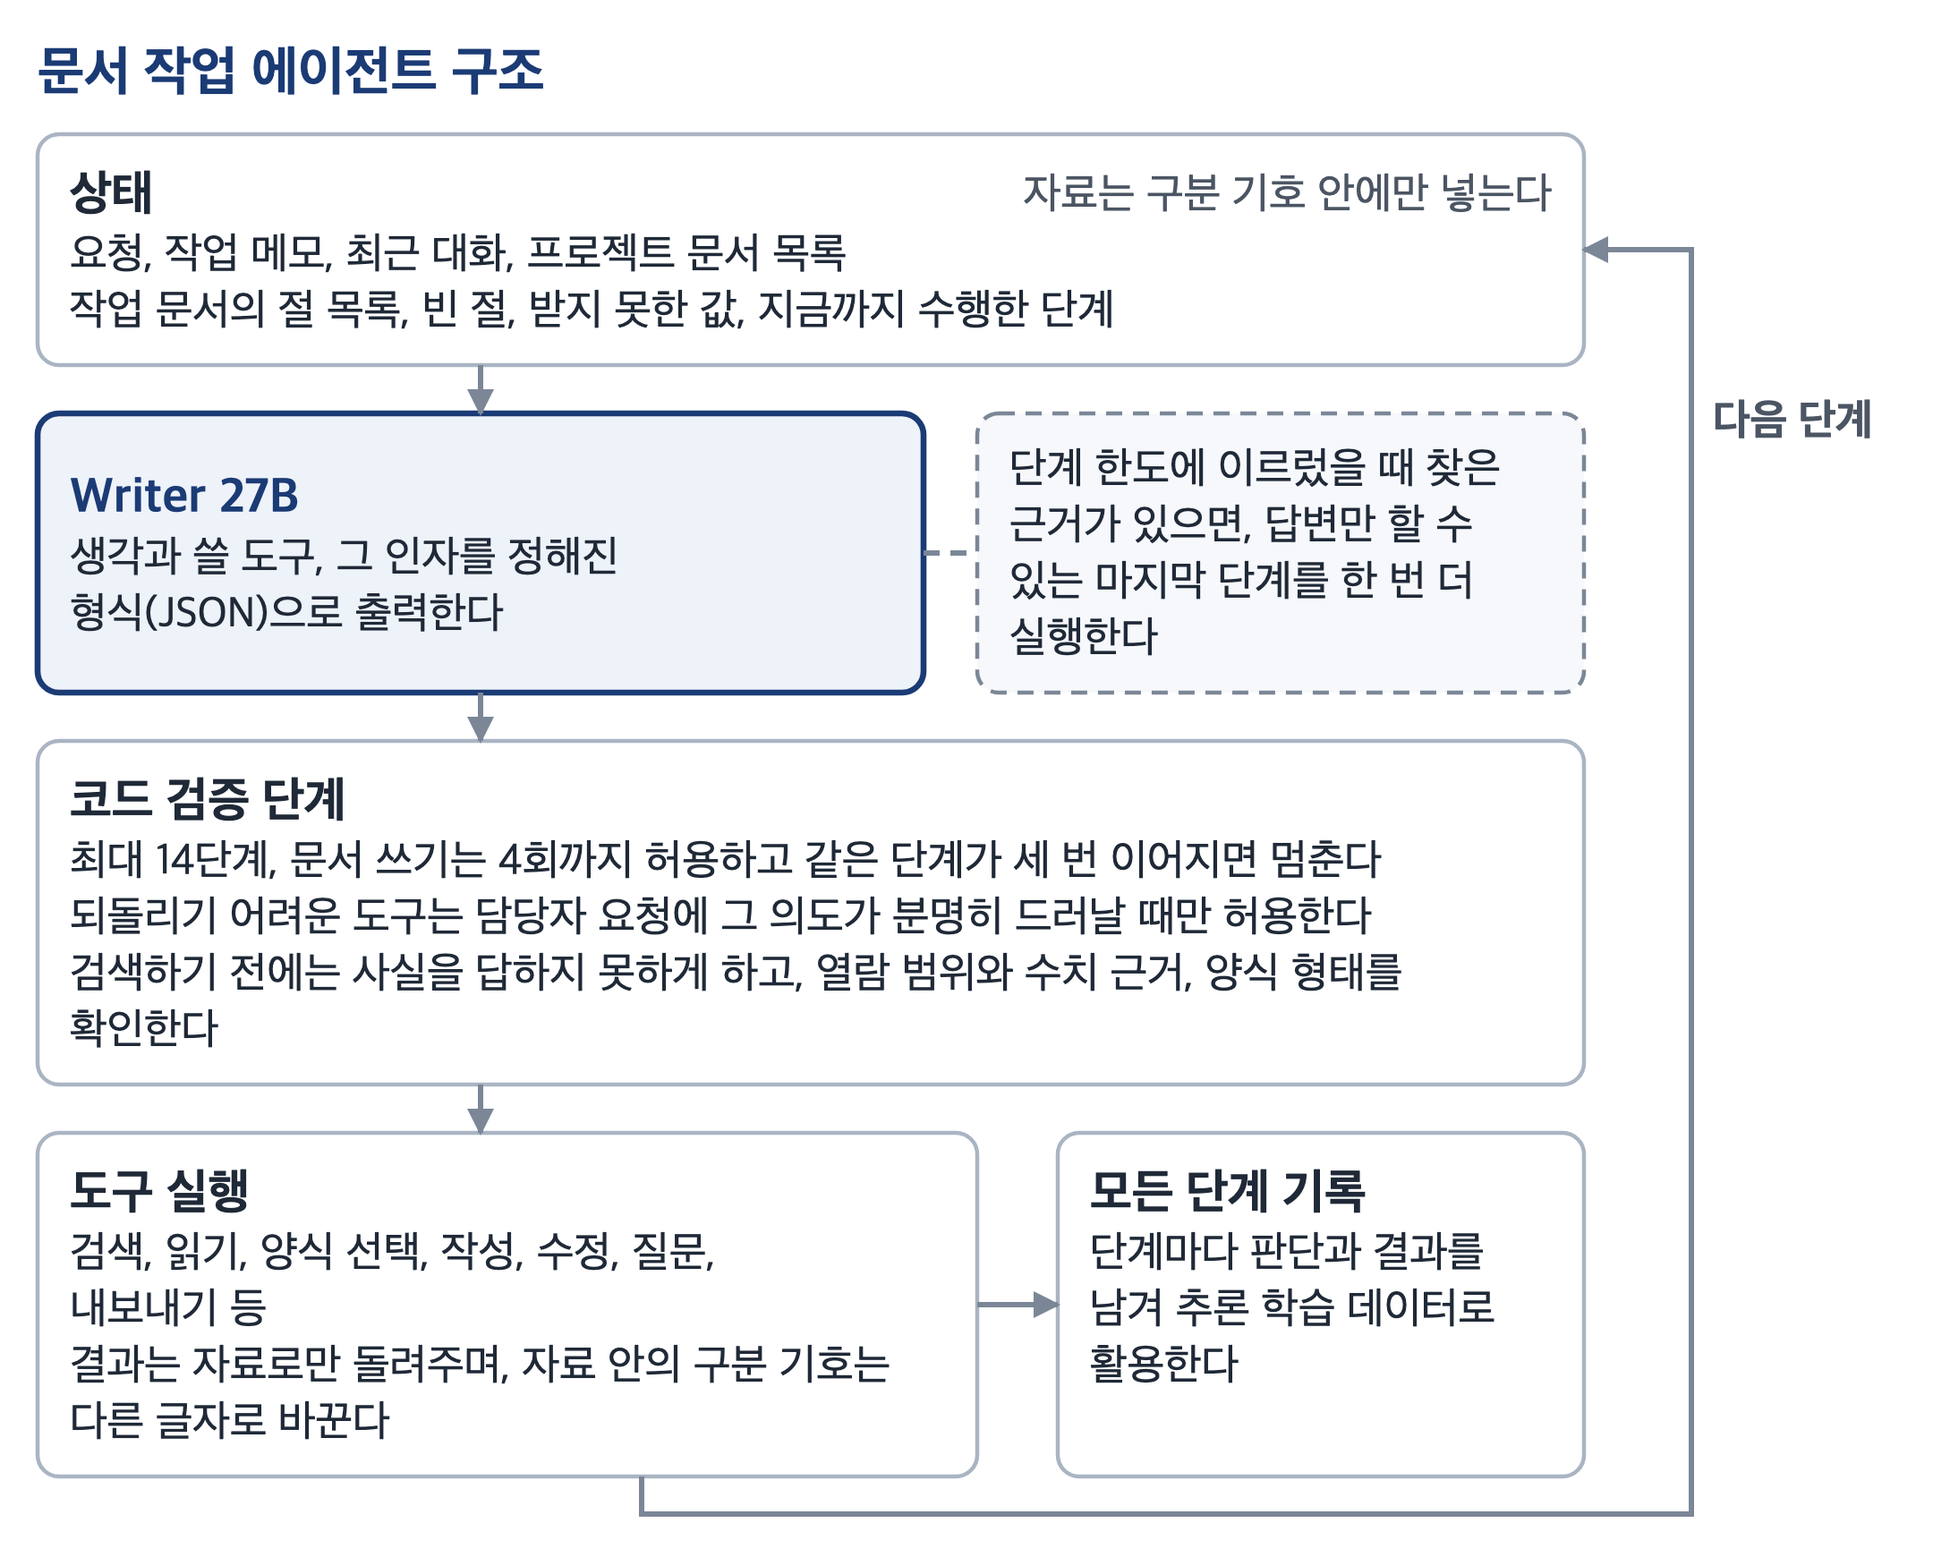
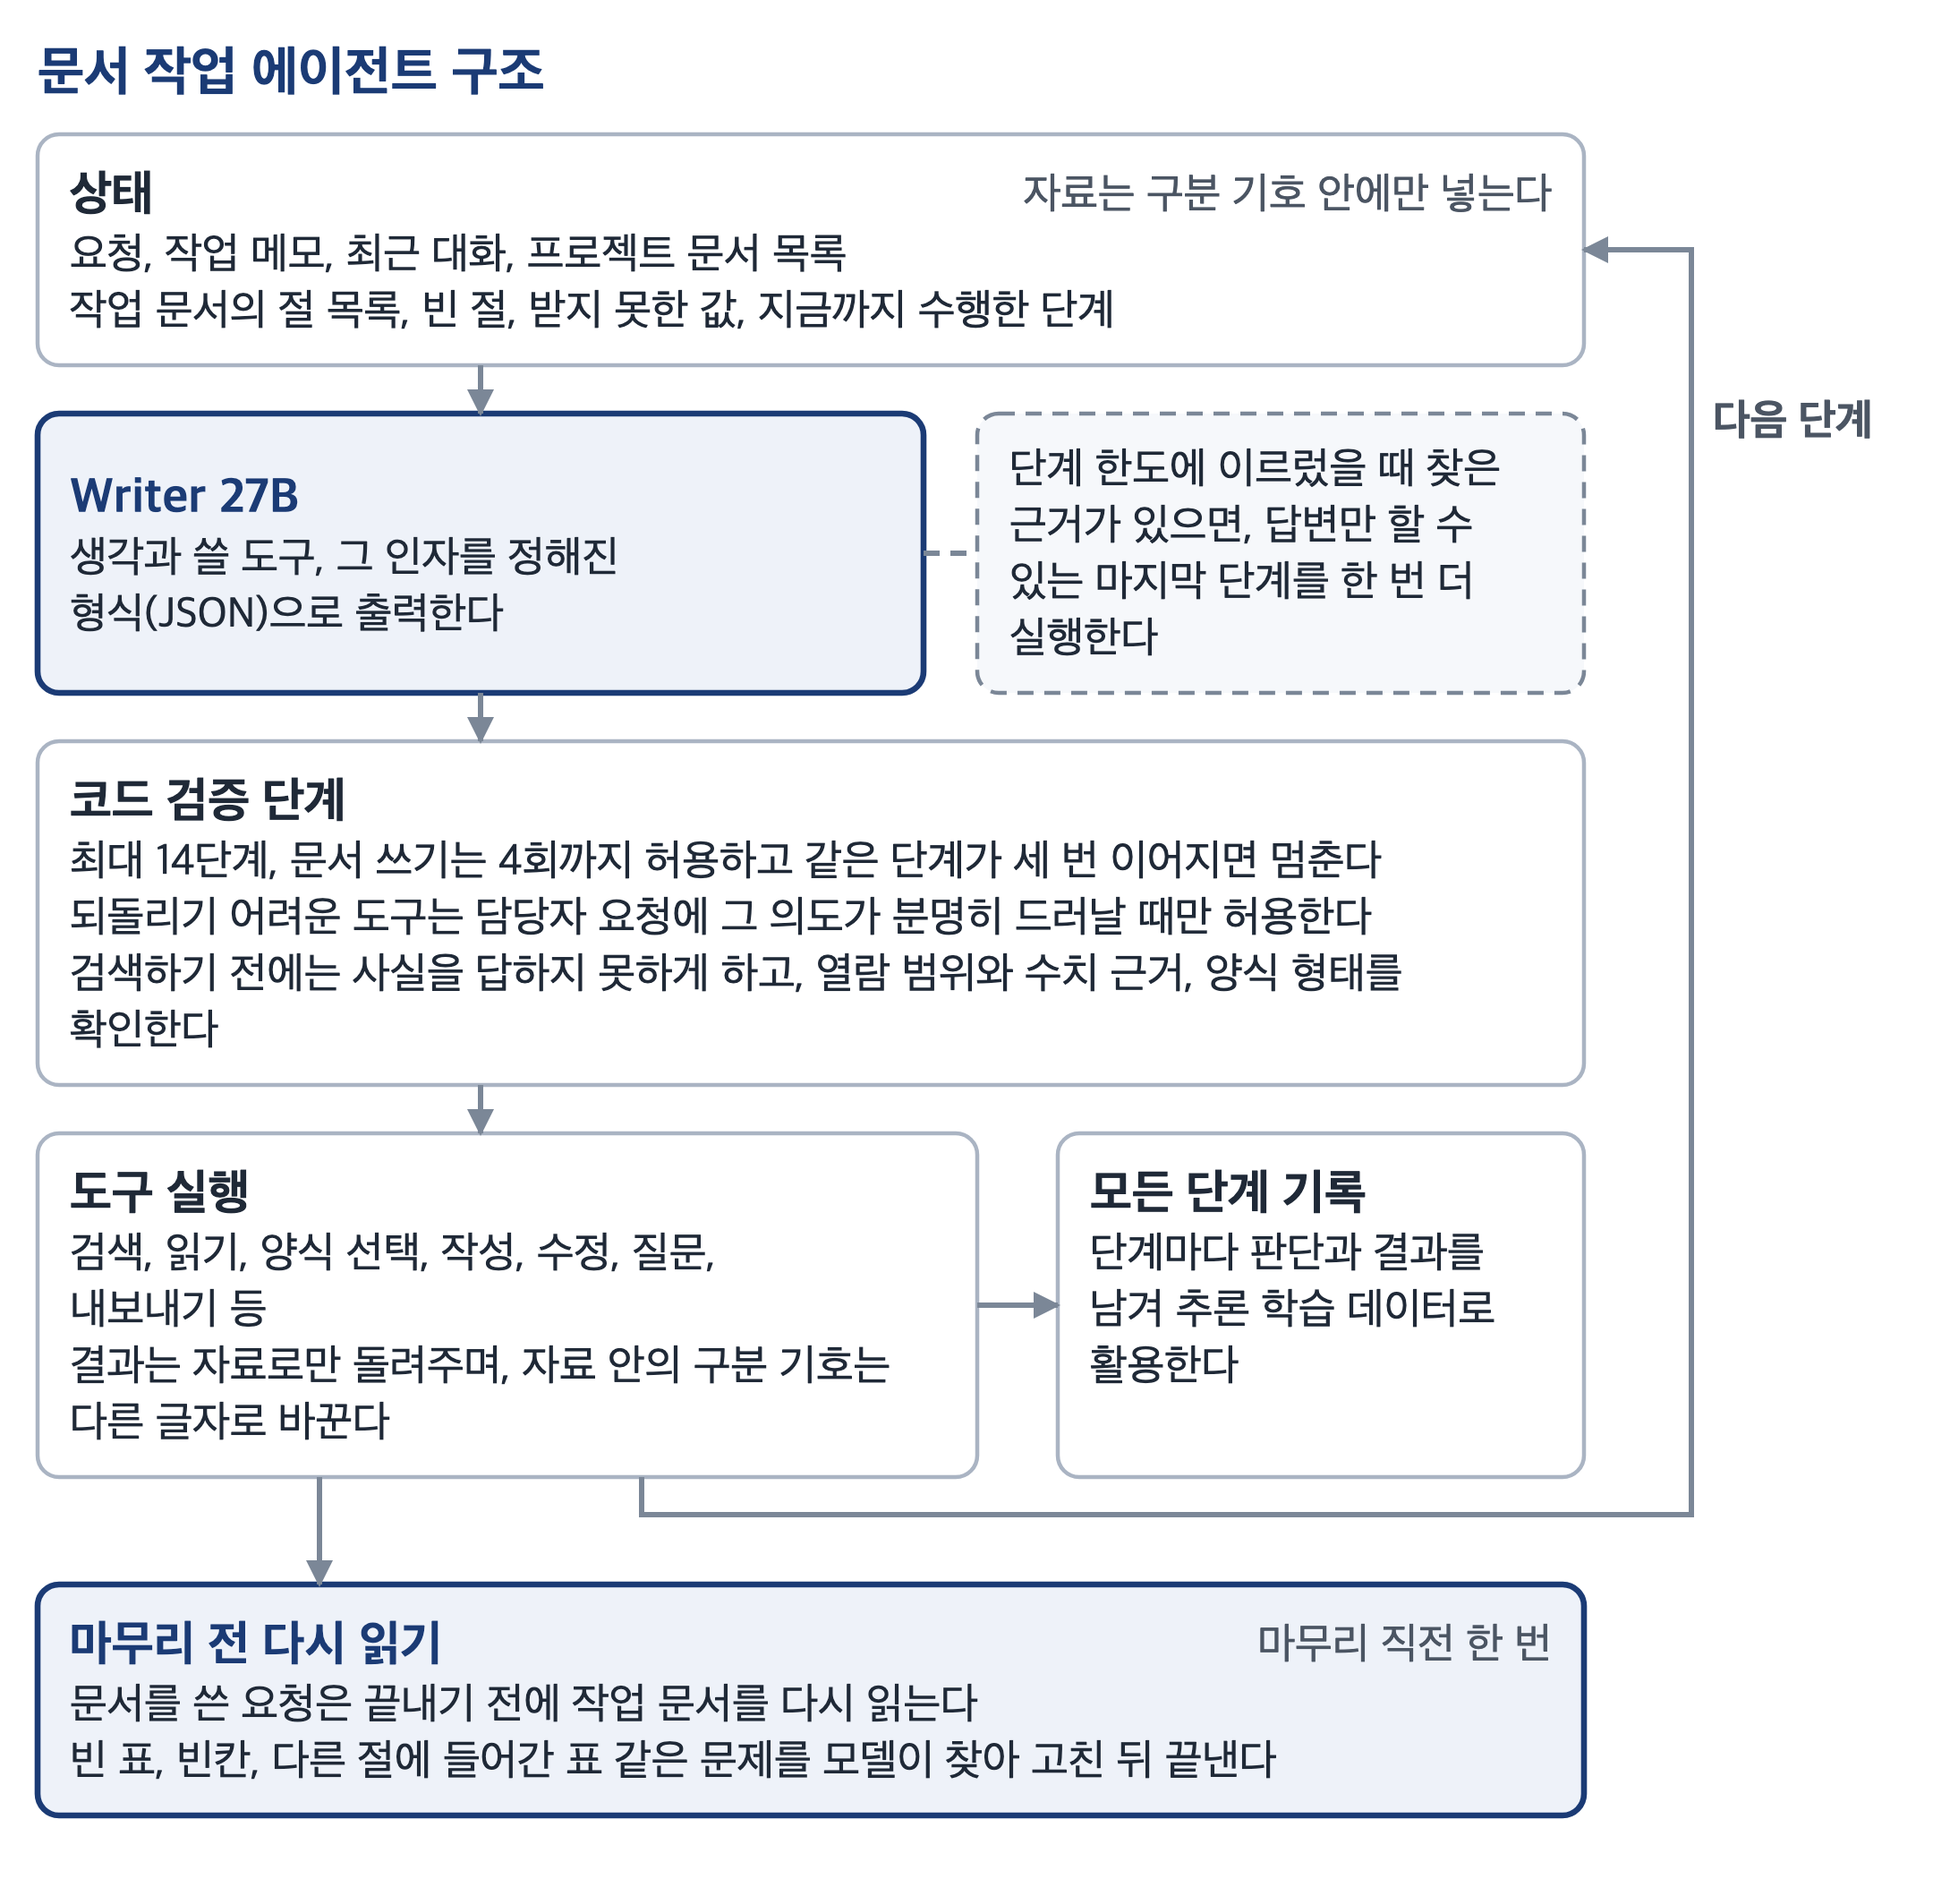
논문: 마무리 전 다시 읽기·표 절 관문(4.6, 그림 4-9), 항목 단계 글자(4.6), 출력 길이 고정 없음·압축(3.6.2, 4.5)

Changed region(s): [[0.0, 0.0, 0.8685, 0.9931], [0.8685, 0.1862, 0.9926, 0.2793], [0.8065, 0.1241, 0.8685, 0.1862]]

diff --git a/docs/images/diagrams/make_diagrams_ch34.py b/docs/images/diagrams/make_diagrams_ch34.py
@@ -633,7 +633,12 @@ def doc_agent():
     lx = M + cw + 40
     s.arrow([(M + lw / 2 + 60, y4 + h4), (M + lw / 2 + 60, y4 + h4 + 14), (lx, y4 + h4 + 14), (lx, y + h1 / 2), (M + cw, y + h1 / 2)])
     s.para(lx + 8, y + h1 + 10, W - M - lx - 8, "다음 단계", weight=700, color=MUTED)
-    s.fit(y4 + h4 + 16)
+    y5 = y4 + h4 + 40
+    h5 = s.box(M, y5, cw, None, "마무리 전 다시 읽기", ["문서를 쓴 요청은 끝내기 전에 작업 문서를 다시 읽는다",
+                                                "빈 표, 빈칸, 다른 절에 들어간 표 같은 문제를 모델이 찾아 고친 뒤 끝낸다"],
+               tag="마무리 직전 한 번", strong=True)
+    s.arrow([(M + lw / 2 - 60, y4 + h4), (M + lw / 2 - 60, y5)])
+    s.fit(y5 + h5 + 16)
     s.save("c4-21-doc-agent", "문서 작업 에이전트의 단계 구조와 관문")
 
 

diff --git a/docs/paper/논문/04-구현.md b/docs/paper/논문/04-구현.md
@@ -559,9 +559,9 @@ SHACL 위반 0건은 구축 결과가 온톨로지 명세를 지킨다는 뜻이
 3. 에이전트 판단: 문서 작업 에이전트가 먼저 요청을 받아 도구를 선택한다(4.6절). 모델에 접속할 수 없을 때만 낱말 규칙 경로를 사용한다.
 4. 검색: 규정 검색과 사업 문서 검색을 동시에 실행하고, 프로젝트 대화이면 그 프로젝트의 문서를 앞에 둔다.
 5. 근거 묶기: 두 묶음을 구분해 전달하고, 근거가 없거나 약하면 그 사실을 알린다.
-6. 컨텍스트 맞추기: 첨부, 오래된 대화, 출력 상한, 검색 근거의 순서로 줄이고, 그래도 컨텍스트 길이를 넘으면 요청을 보내지 않는다.
+6. 컨텍스트 맞추기: 첨부, 오래된 대화, 검색 근거의 순서로 압축하고, 그래도 컨텍스트 길이를 넘으면 요청을 보내지 않는다(3.6.2절).
 7. 생성: 첫머리 1~3문장의 답, 5개 이내의 근거 요점, 600자 안팎의 분량을 지시하고, 표나 문단을 그대로 옮겨 적지 않게 한다. 생성되는
-   대로 화면에 표시하며, 출력 한도에서 끊기면 한 번 이어서 생성한다.
+   대로 화면에 표시한다. 출력 길이는 남은 컨텍스트 전부를 허용하므로 긴 답도 중간에 끊기지 않는다.
 8. 근거에 없는 수치 표시: 근거에 없는 숫자에 「(근거 확인 필요)」를 덧붙이고 답변 끝에 안내한다(예: 근거에 없는 참여 인원 「300명(근거 확인
    필요)」).
 9. 출처 생성: 전달한 근거 목록에서만 출처를 생성한다.
@@ -873,7 +873,11 @@ for i, crit in enumerate(pending):
 작업 문서마다 양식에서 본문 글꼴, 크기, 표 머리글 행 배경, 표 셀 크기를 추출한 서식 규격을 둔다. 절 본문, 입력란 값, 표 셀 값은 이 본문
 형식(검정, 기울임 없음)으로 작성하여 견본 글(파랑·빨강·기울임)의 모양을 물려받지 않게 한다. 절 본문의 글자 크기는 그 절 위치의
 본문 글자 하나를 기준으로 통일하고, 들여쓰기만 같은 부호를 사용한 견본 줄을 따른다. 줄마다 견본 줄의 글자 모양을 가져오면 AURA가
-앞서 작성한 절까지 견본이 되어, 한 절 안에 17.6pt와 13pt처럼 서로 다른 크기가 섞이기 때문이다. 양식이 본문 모양을 정하지 않은 부분에는 기관 서식 프로필을
+앞서 작성한 절까지 견본이 되어, 한 절 안에 17.6pt와 13pt처럼 서로 다른 크기가 섞이기 때문이다. AURA가 만든 양식에서는 저장할 때마다
+문서 전체의 항목 단계를 한 번 더 맞춘다. 긴 본문 문단에서 가장 많이 쓰인 크기를 기준 크기로 잡고, 절 제목은 기준보다 2pt 크게 굵게,
+첫째 단계 항목(「1)」)은 1pt 크게 굵게, 둘째 단계(「가)」)는 기준 크기, 그 아래 단계는 1pt 작게 둔다. 그 결과 위 단계에서 아래 단계로
+갈수록 글자가 같거나 작아지고, 같은 단계는 문서 어디에서나 같은 크기가 된다. 학교 원본 서식은 서식 작성자가 정한 모양이므로 이 정리를
+적용하지 않는다. 양식이 본문 모양을 정하지 않은 부분에는 기관 서식 프로필을
 적용한다. 이 프로필은 기관이 직접 작성한 지난 계획서와 보고서에서 역할별(장 제목, 개조식 부호별 항목, 본문, 표 머리글, 표 셀, 상자)
 글꼴, 크기, 굵기의 최빈값을 추출한 것이며, 적용 순서는 양식 견본, 기관 프로필, 플랫폼 기본값이다. 결과는 서식 대조 도구가 작업 문서와 정답
 문서를 절마다 본문 글꼴·크기·굵기와 표의 행·열·열 폭 비율로 비교해 측정한다. 프로필 도입 전 특성화 서식 재현 시험에서는 본문 크기
@@ -895,6 +899,14 @@ for i, crit in enumerate(pending):
 값 위치가 분명한 라벨 셀은 덮어쓰지 않고 오른쪽 값 셀에 넣으며, 단위를 유지한다(「9」 → 「9개」).
 
 [^i6-field]: 누름틀은 한글 문서에서 이름을 붙인 입력 영역(필드, field)으로, 프로그램이 이름으로 찾아 글을 읽고 쓸 수 있다. 이 논문에서는 문맥에 따라 입력란 또는 편집 영역이라고도 부른다.
+
+표를 넣거나 고치는 도구는 그 표가 어느 절에 있는지 결과에 함께 알린다. 요청이 「3. 목표 및 성과지표」처럼 절을 지정했는데 다른 절의
+표를 고치려 하면 실행하지 않고, 지정한 절에 있는 표의 번호를 알려 준다. 한 절의 표를 채우면 그 절에 남은 양식의 빈 표도 함께 지운다.
+문서를 쓴 요청은 마무리하기 전에 작업 문서를 한 번 다시 읽는다. 코드가 요청에서 지정한 절의 본문과 표(지정하지 않았으면 문서 전체)를
+절별 표 목록과 함께 모델에 전달하고, 빈 표, 빈칸, 「확인 필요」, 한자 혼용, 모든 행에서 같은 글이 반복되는 열, 머리글 행이 없는 표,
+「1)」 없이 시작한 번호를 문제 후보로 덧붙인다. 실제 문제인지와 고칠 방법은 모델이 판단해 도구로 고친 뒤 마무리한다. 사람이 작성을
+끝낸 뒤 처음부터 훑어보며 고치는 과정을 에이전트 안에 둔 것으로, 다른 절에 들어간 표나 남은 견본 표처럼 단계마다의 검증에서는 보이지
+않는 문제를 마무리 전에 찾게 한다.
 
 작년 결과보고서를 양식으로 사용하면 작업 문서는 그 값을 비운 사본이나 구조만 남긴 사본이 된다. 이때 작년 문서가 근거 검색에 포함되면
 지난해 값이 새 문서에 그대로 들어가므로, 작업 문서의 출처 기록을 읽어 원본 문서와 그 원본을 다시 올린 문서를 근거 검색에서 제외한다.

diff --git a/docs/paper/논문/03-환경-설계.md b/docs/paper/논문/03-환경-설계.md
@@ -514,9 +514,13 @@ def role_conn(role: str) -> dict | None:
 지시한 뒤 결과를 파싱한다. 결과마다 실제로 응답한 모델 정보를 기록하되 서버 주소와 가중치 경로는 남기지 않는다. 후보 모델은 교체 점검
 도구로 운영 설정을 바꾸지 않은 채 같은 데이터에서 검색·답변·서류 종류 판정 성능을 나란히 측정해 채택 여부를 정한다.
 
-컨텍스트 길이는 비율로 배분한다. 대화의 작업 메모(2.7절)에는 컨텍스트 길이의 6%, 최근 대화 원문에는 30%를 배정하고, 전송 전에는 첨부, 오래된 대화,
-출력 상한, 검색 근거 순으로 줄여 한도에 맞춘다. 끝까지 줄여도 한도를 넘으면 요청을 보내지 않는다. 비율로 배분하므로 컨텍스트가 긴 모델로
-바꾸면 배정량도 자동으로 늘어난다.
+컨텍스트 길이는 비율로 배분한다. 대화의 작업 메모(2.7절)에는 컨텍스트 길이의 6%, 최근 대화 원문에는 30%를 배정한다. 출력 길이는
+고정하지 않는다. 모든 모델 호출은 메인 에이전트, 서브 에이전트, 답변, 분류의 구분 없이 하나의 연결 계층을 거치며, 이 계층이 컨텍스트
+길이에서 입력 길이를 뺀 나머지 전부를 출력에 허용한다. vLLM은 출력 몫을 미리 확보하지 않고 실제로 생성한 만큼만 메모리를 쓰므로,
+허용 길이를 크게 두어도 동시에 실행되는 서브 에이전트에 부담이 없다. 끝없이 생성되는 경우는 출력 길이 대신 호출 시간 제한으로 막는다.
+입력이 컨텍스트 길이를 넘으면 첨부, 오래된 대화, 검색 근거 순으로 잘라 내지 않고 모델로 압축해 이어 간다. 압축할 때는 담당자의 요청과
+조건, 이미 정한 것과 남은 일, 수치·날짜·이름·출처를 그대로 남기고 되풀이와 군더더기만 뺀다. 압축이 실패하면 뒤부터 잘라 내고, 그래도
+한도를 넘으면 요청을 보내지 않는다. 비율로 배분하므로 컨텍스트가 긴 모델로 바꾸면 배정량도 자동으로 늘어난다.
 
 ### 3.6.3 학습 모델 반영
 
